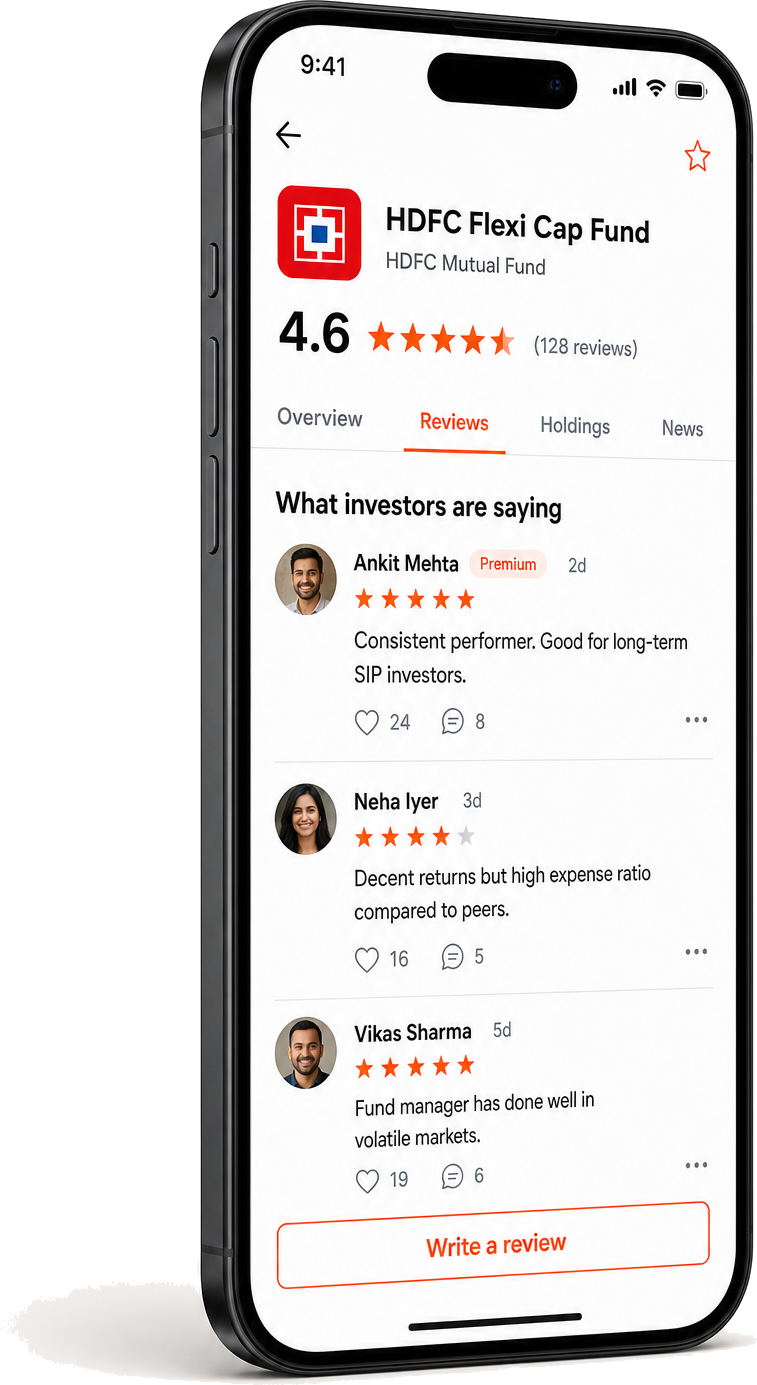
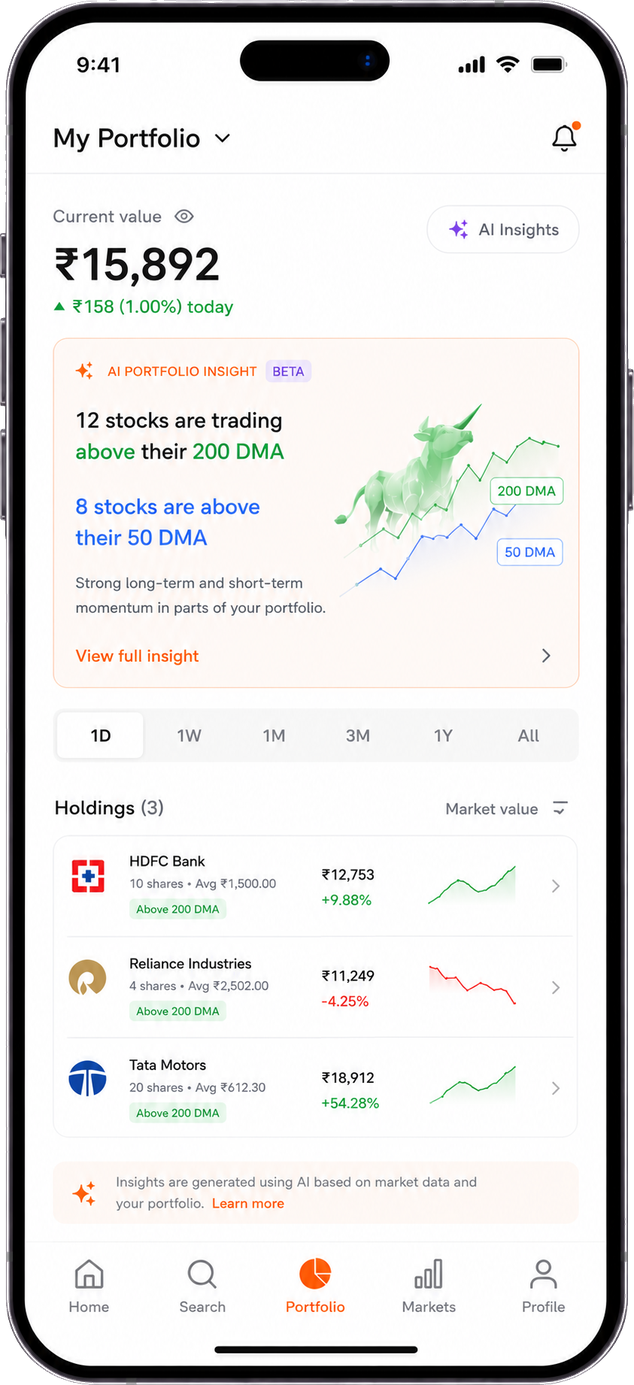
Update landing hero phone to portfolio insights mockup.
Replace the right-side iPhone asset with a transparent portfolio screen cutout at the live height, keeping natural proportions.

diff --git a/social/src/pages/HomePage.jsx b/social/src/pages/HomePage.jsx
@@ -145,7 +145,7 @@ function MobileVisuals() {
       />
       <img
         src={`${ASSETS}/iphone-fund-reviews.png`}
-        alt="PocketEdge app showing HDFC Flexi Cap Fund reviews on iPhone"
+        alt="PocketEdge app showing portfolio holdings and AI insights on iPhone"
         className="absolute bottom-0 right-0 h-[28rem] w-auto object-contain object-bottom-right drop-shadow-[0_16px_32px_rgba(0,0,0,0.2)]"
       />
     </div>
@@ -262,7 +262,7 @@ export default function HomePage() {
             />
             <img
               src={`${ASSETS}/iphone-fund-reviews.png`}
-              alt="PocketEdge app showing HDFC Flexi Cap Fund reviews on iPhone"
+              alt="PocketEdge app showing portfolio holdings and AI insights on iPhone"
               className="absolute bottom-0 right-0 h-[92%] max-w-[72%] object-contain object-bottom-right drop-shadow-lg"
             />
           </div>
